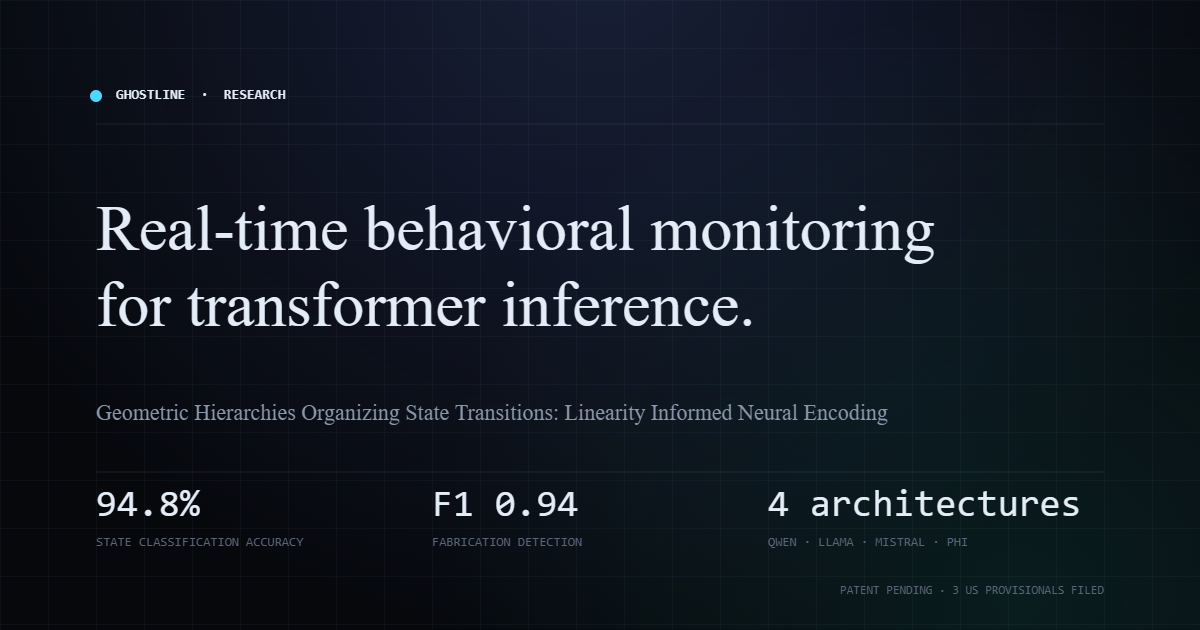
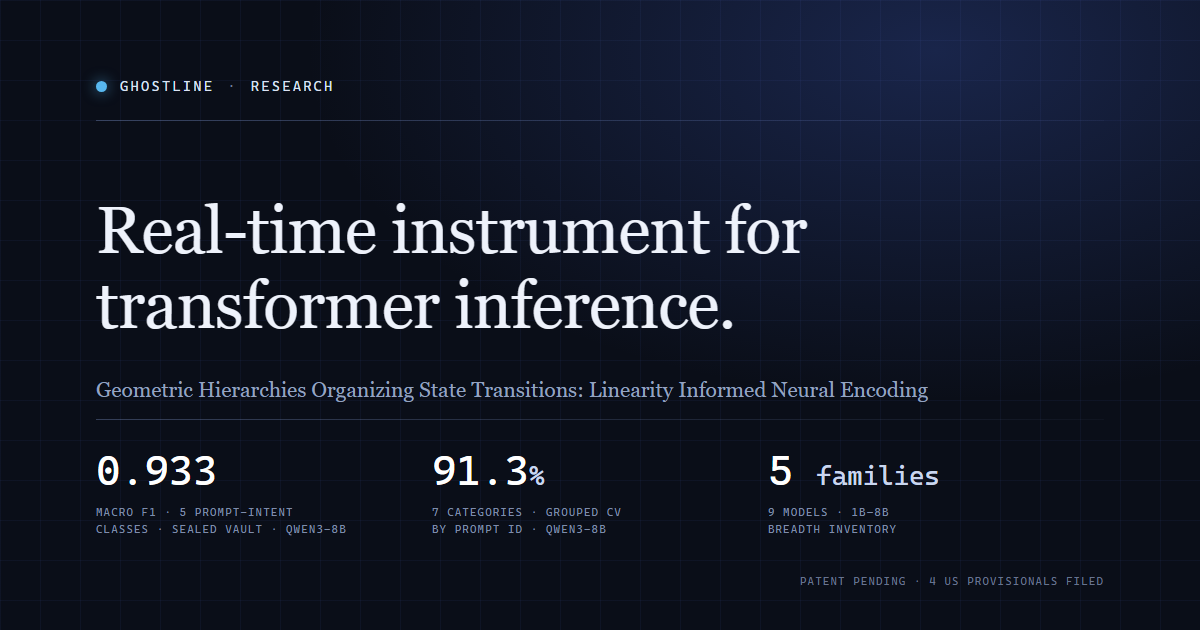
meta: rebuild the share card with audited, scoped figures
The card image had the claims baked into the pixels, so correcting the metadata
alone left every share still showing them.

  F1 0.94 fabrication detection  ->  0.933 macro F1, five prompt-intent classes,
                                     sealed vault, Qwen3-8B
  94.8% state classification     ->  91.3%, seven categories, grouped CV by
                                     prompt ID, Qwen3-8B
  4 architectures (QWEN LLAMA     ->  5 families, 9 models, 1B-8B, labelled a
  MISTRAL PHI)                       breadth inventory rather than validation
  3 US provisionals filed        ->  4 US provisionals filed
  "behavioral monitoring"        ->  "instrument"

Binary fabrication F1 is not cited outward. COR-2026-0716-007 names the 0.933
sealed-vault result as the preferred rigorously split headline; 91.3% comes from
CLM-2026-0716-005, which is supported and grouped by prompt ID.

Each figure now carries its class count, metric, split unit and model in the
label beneath it, so it survives being screenshotted out of context.

Adds static-landing/og-card-source.html, the HTML the card renders from, so the
image can be regenerated deterministically instead of rebuilt by hand. It is not
copied by the deploy workflow and does not ship.

diff --git a/static-landing/og-card-source.html b/static-landing/og-card-source.html
@@ -1,0 +1,76 @@
+<meta charset="utf-8">
+<style>
+  @page { size: 1200px 630px; margin: 0; }
+  * { margin: 0; padding: 0; box-sizing: border-box; }
+  html, body { width: 1200px; height: 630px; overflow: hidden; }
+  body {
+    background: #0a0e18;
+    background-image:
+      linear-gradient(rgba(107,140,255,.055) 1px, transparent 1px),
+      linear-gradient(90deg, rgba(107,140,255,.055) 1px, transparent 1px),
+      radial-gradient(ellipse 900px 500px at 78% 8%, rgba(60,90,190,.30), transparent 70%);
+    background-size: 40px 40px, 40px 40px, 100% 100%;
+    font-family: Georgia, 'Times New Roman', serif;
+    color: #eef2fb;
+    position: relative;
+  }
+  .pad { padding: 78px 96px 0; }
+  .brand {
+    display: flex; align-items: center; gap: 13px;
+    font-family: ui-monospace, 'Cascadia Mono', Consolas, monospace;
+    font-size: 13.5px; letter-spacing: .19em; color: #dbe3f5;
+  }
+  .dot { width: 11px; height: 11px; border-radius: 50%; background: #58b8f0; box-shadow: 0 0 14px #58b8f0aa; }
+  .brand .sep { color: #6f7d99; }
+  .rule { height: 1px; background: linear-gradient(90deg, rgba(150,175,235,.30), rgba(150,175,235,.04)); margin-top: 26px; }
+
+  h1 { font-size: 66px; line-height: 1.13; font-weight: 400; letter-spacing: -.012em; margin-top: 72px; }
+  .sub { margin-top: 34px; font-size: 21px; line-height: 1.4; color: #94a3c0; font-style: normal; }
+
+  .stats { position: absolute; left: 96px; right: 96px; bottom: 92px; }
+  .stats .rule { margin: 0 0 30px; }
+  .row { display: flex; }
+  .stat { flex: 0 0 33.33%; }
+  .val {
+    font-family: ui-monospace, 'Cascadia Mono', Consolas, monospace;
+    font-size: 42px; letter-spacing: -.01em; color: #ffffff; line-height: 1;
+  }
+  .val i { font-style: normal; font-size: 27px; color: #c9d6ef; }
+  .lbl {
+    margin-top: 12px;
+    font-family: ui-monospace, 'Cascadia Mono', Consolas, monospace;
+    font-size: 11px; letter-spacing: .105em; color: #7e8caa; line-height: 1.55;
+  }
+  .foot {
+    position: absolute; right: 96px; bottom: 42px;
+    font-family: ui-monospace, 'Cascadia Mono', Consolas, monospace;
+    font-size: 11px; letter-spacing: .105em; color: #66738f;
+  }
+</style>
+
+<div class="pad">
+  <div class="brand"><span class="dot"></span>GHOSTLINE<span class="sep">&middot;</span>RESEARCH</div>
+  <div class="rule"></div>
+  <h1>Real-time instrument for<br>transformer inference.</h1>
+  <div class="sub">Geometric Hierarchies Organizing State Transitions: Linearity Informed Neural Encoding</div>
+</div>
+
+<div class="stats">
+  <div class="rule"></div>
+  <div class="row">
+    <div class="stat">
+      <div class="val">0.933</div>
+      <div class="lbl">MACRO F1 &middot; 5 PROMPT-INTENT<br>CLASSES &middot; SEALED VAULT &middot; QWEN3-8B</div>
+    </div>
+    <div class="stat">
+      <div class="val">91.3<i>%</i></div>
+      <div class="lbl">7 CATEGORIES &middot; GROUPED CV<br>BY PROMPT ID &middot; QWEN3-8B</div>
+    </div>
+    <div class="stat">
+      <div class="val">5 <i>families</i></div>
+      <div class="lbl">9 MODELS &middot; 1B&ndash;8B<br>BREADTH INVENTORY</div>
+    </div>
+  </div>
+</div>
+
+<div class="foot">PATENT PENDING &middot; 4 US PROVISIONALS FILED</div>
